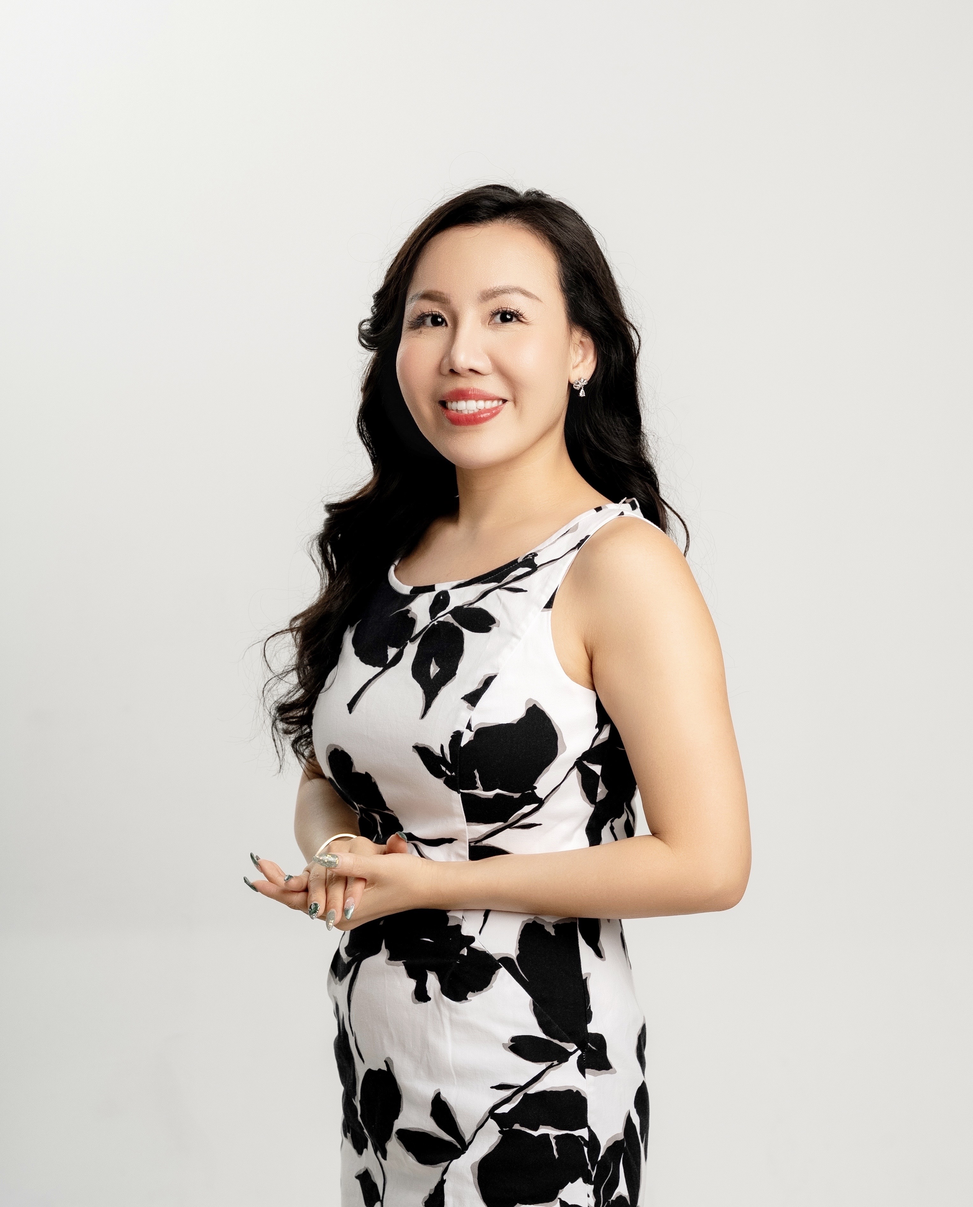
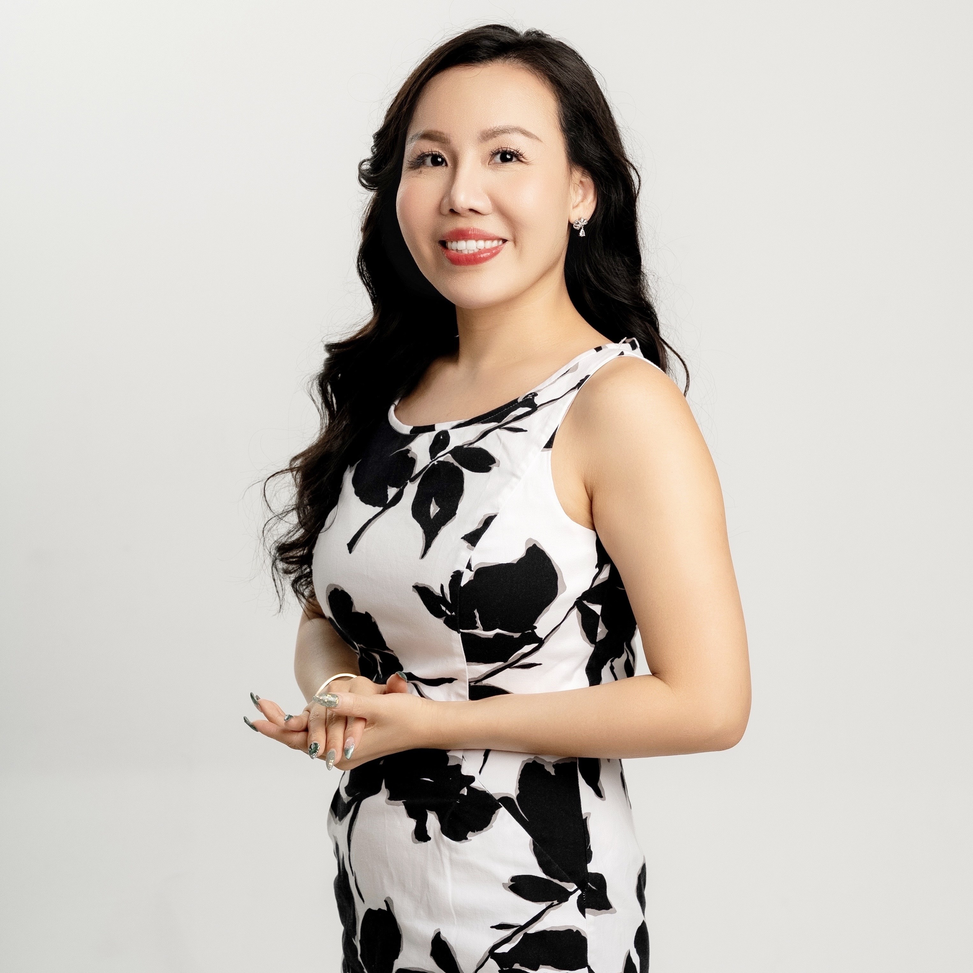
UI Polish: Refine stats block to avoid transparent bleeding; update profile pictures

Changed region(s): [[0.249, 0.0, 0.7782, 1.0], [0.7471, 0.5603, 0.7782, 0.6225]]

diff --git a/index.html b/index.html
@@ -157,8 +157,8 @@
         </section>
         <!-- Impact Section (Stats Bar) -->
         <section class="relative z-20 -mt-16 max-w-6xl mx-auto px-4 sm:px-8">
-            <div
-                class="bg-outline-variant/20 shadow-2xl shadow-primary/10 rounded-xl grid grid-cols-2 md:grid-cols-4 gap-px overflow-hidden">
+            <div class="bg-surface-container-lowest shadow-2xl shadow-primary/10 rounded-xl overflow-hidden">
+                <div class="bg-outline-variant/20 grid grid-cols-2 md:grid-cols-4 gap-px">
                 <div
                     class="bg-surface-container-lowest p-4 sm:p-6 md:p-8 text-center group transition-colors hover:bg-surface-container-low flex flex-col justify-start">
                     <span class="material-symbols-outlined text-primary text-2xl md:text-3xl mb-1 md:mb-2">groups</span>
@@ -194,6 +194,7 @@
                     <div
                         class="text-[10px] sm:text-xs md:text-sm font-semibold uppercase tracking-wider text-on-surface-variant leading-tight">
                         Participation and collaboration</div>
+                </div>
                 </div>
             </div>
         </section>
